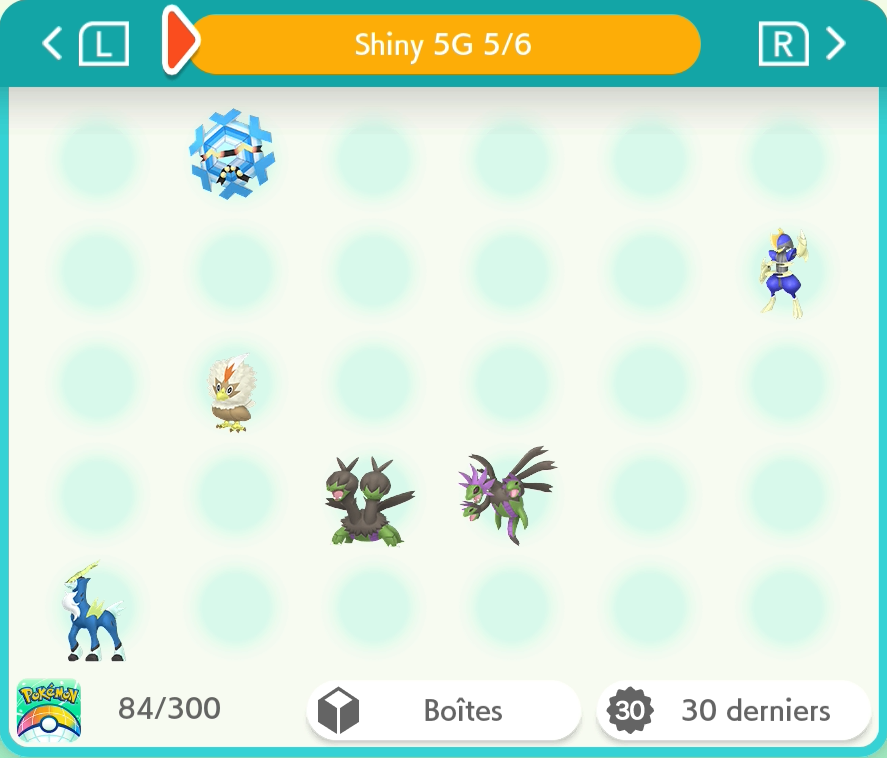
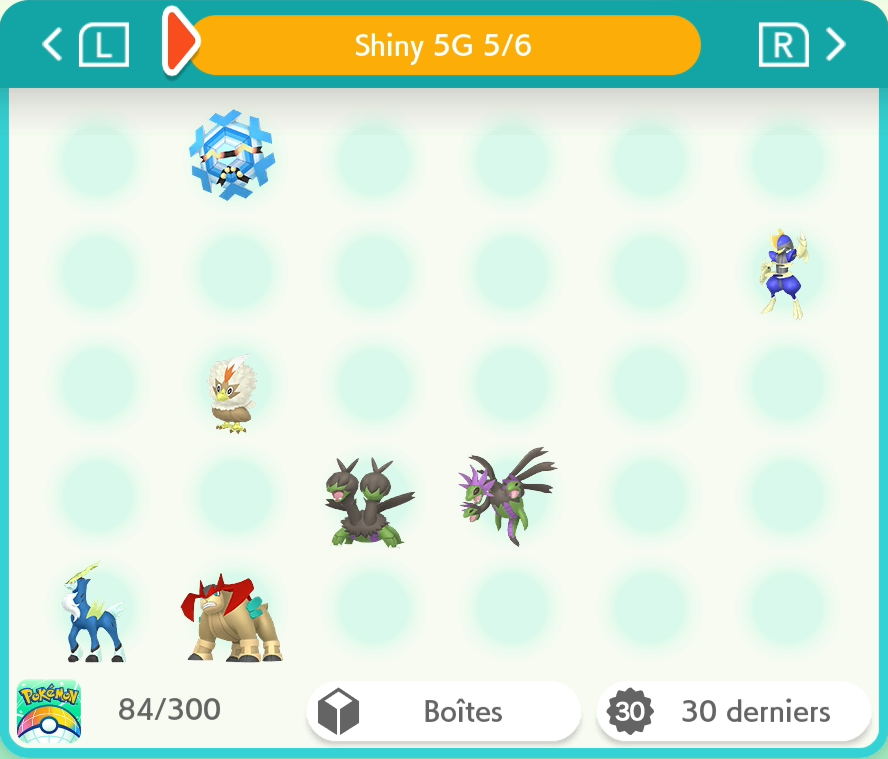
5G : Terrakium

diff --git a/README.md b/README.md
@@ -2,8 +2,8 @@
 
 Pokémon-Elément-Sh -> <a href="https://www.pokemon-element-sh.fr/profil/karyno21" target="_blank">Karyno21</a>
 
-↓ Dernière Update le 05/11/2026 à 8h25 ↓
-### Dex 1-9G [309/1001] +48
+↓ Dernière Update le 05/11/2026 à 10h32 ↓
+### Dex 1-9G [310/1001] +49
 
 | Gen | Prog | Notes |
 |:--:|:--:|---|
@@ -11,7 +11,7 @@ Pokémon-Elément-Sh -> <a href="https://www.pokemon-element-sh.fr/profil/karyno
 |2G|38/100|+6 : Celebi, Raikou, Entei, Suicune, Lugia & Ho-Oh|
 |3G|30/135|+8 : Spinda, Regirock, Regice, Registeel, Latias, Latios, Kyogre, Groudon & Jirachi|
 |4G|28/107|+8 : Créhelf, Créfollet, Créfadet, Dialga, Palkia, Heatran, Regigigas, Giratina (Remplace une distibution) & Cresselia|
-|5G|32/155|+4 : Genesect (JP Event), Venipatte, Scobolide & Cobaltium|
+|5G|33/155|+5 : Genesect (JP Event), Venipatte, Scobolide, Cobaltium & Terrakium|
 |6G|30/71|+8 : Amagara, Dragmara, Ptyranidur, Volcanion (HOME), Diancie (JP Event), Lépidonille, Pérégrain & Prismillon (Floraison)|
 |7G|20/84|+4 : Type:0, Silvallié, Mandrillon & Sovkipou|
 |8G|34/90|+1 : Crèmy|
@@ -26,7 +26,7 @@ Pokémon-Elément-Sh -> <a href="https://www.pokemon-element-sh.fr/profil/karyno
 |Hisui|17/17|Complété|
 |Paldea|4/4|Complété|
 
-### Total [367/1059] +48
+### Total [368/1059] +49
 
 <details>
   <summary>Bonus - Motif de Prismillon [19/19] +19</summary>
